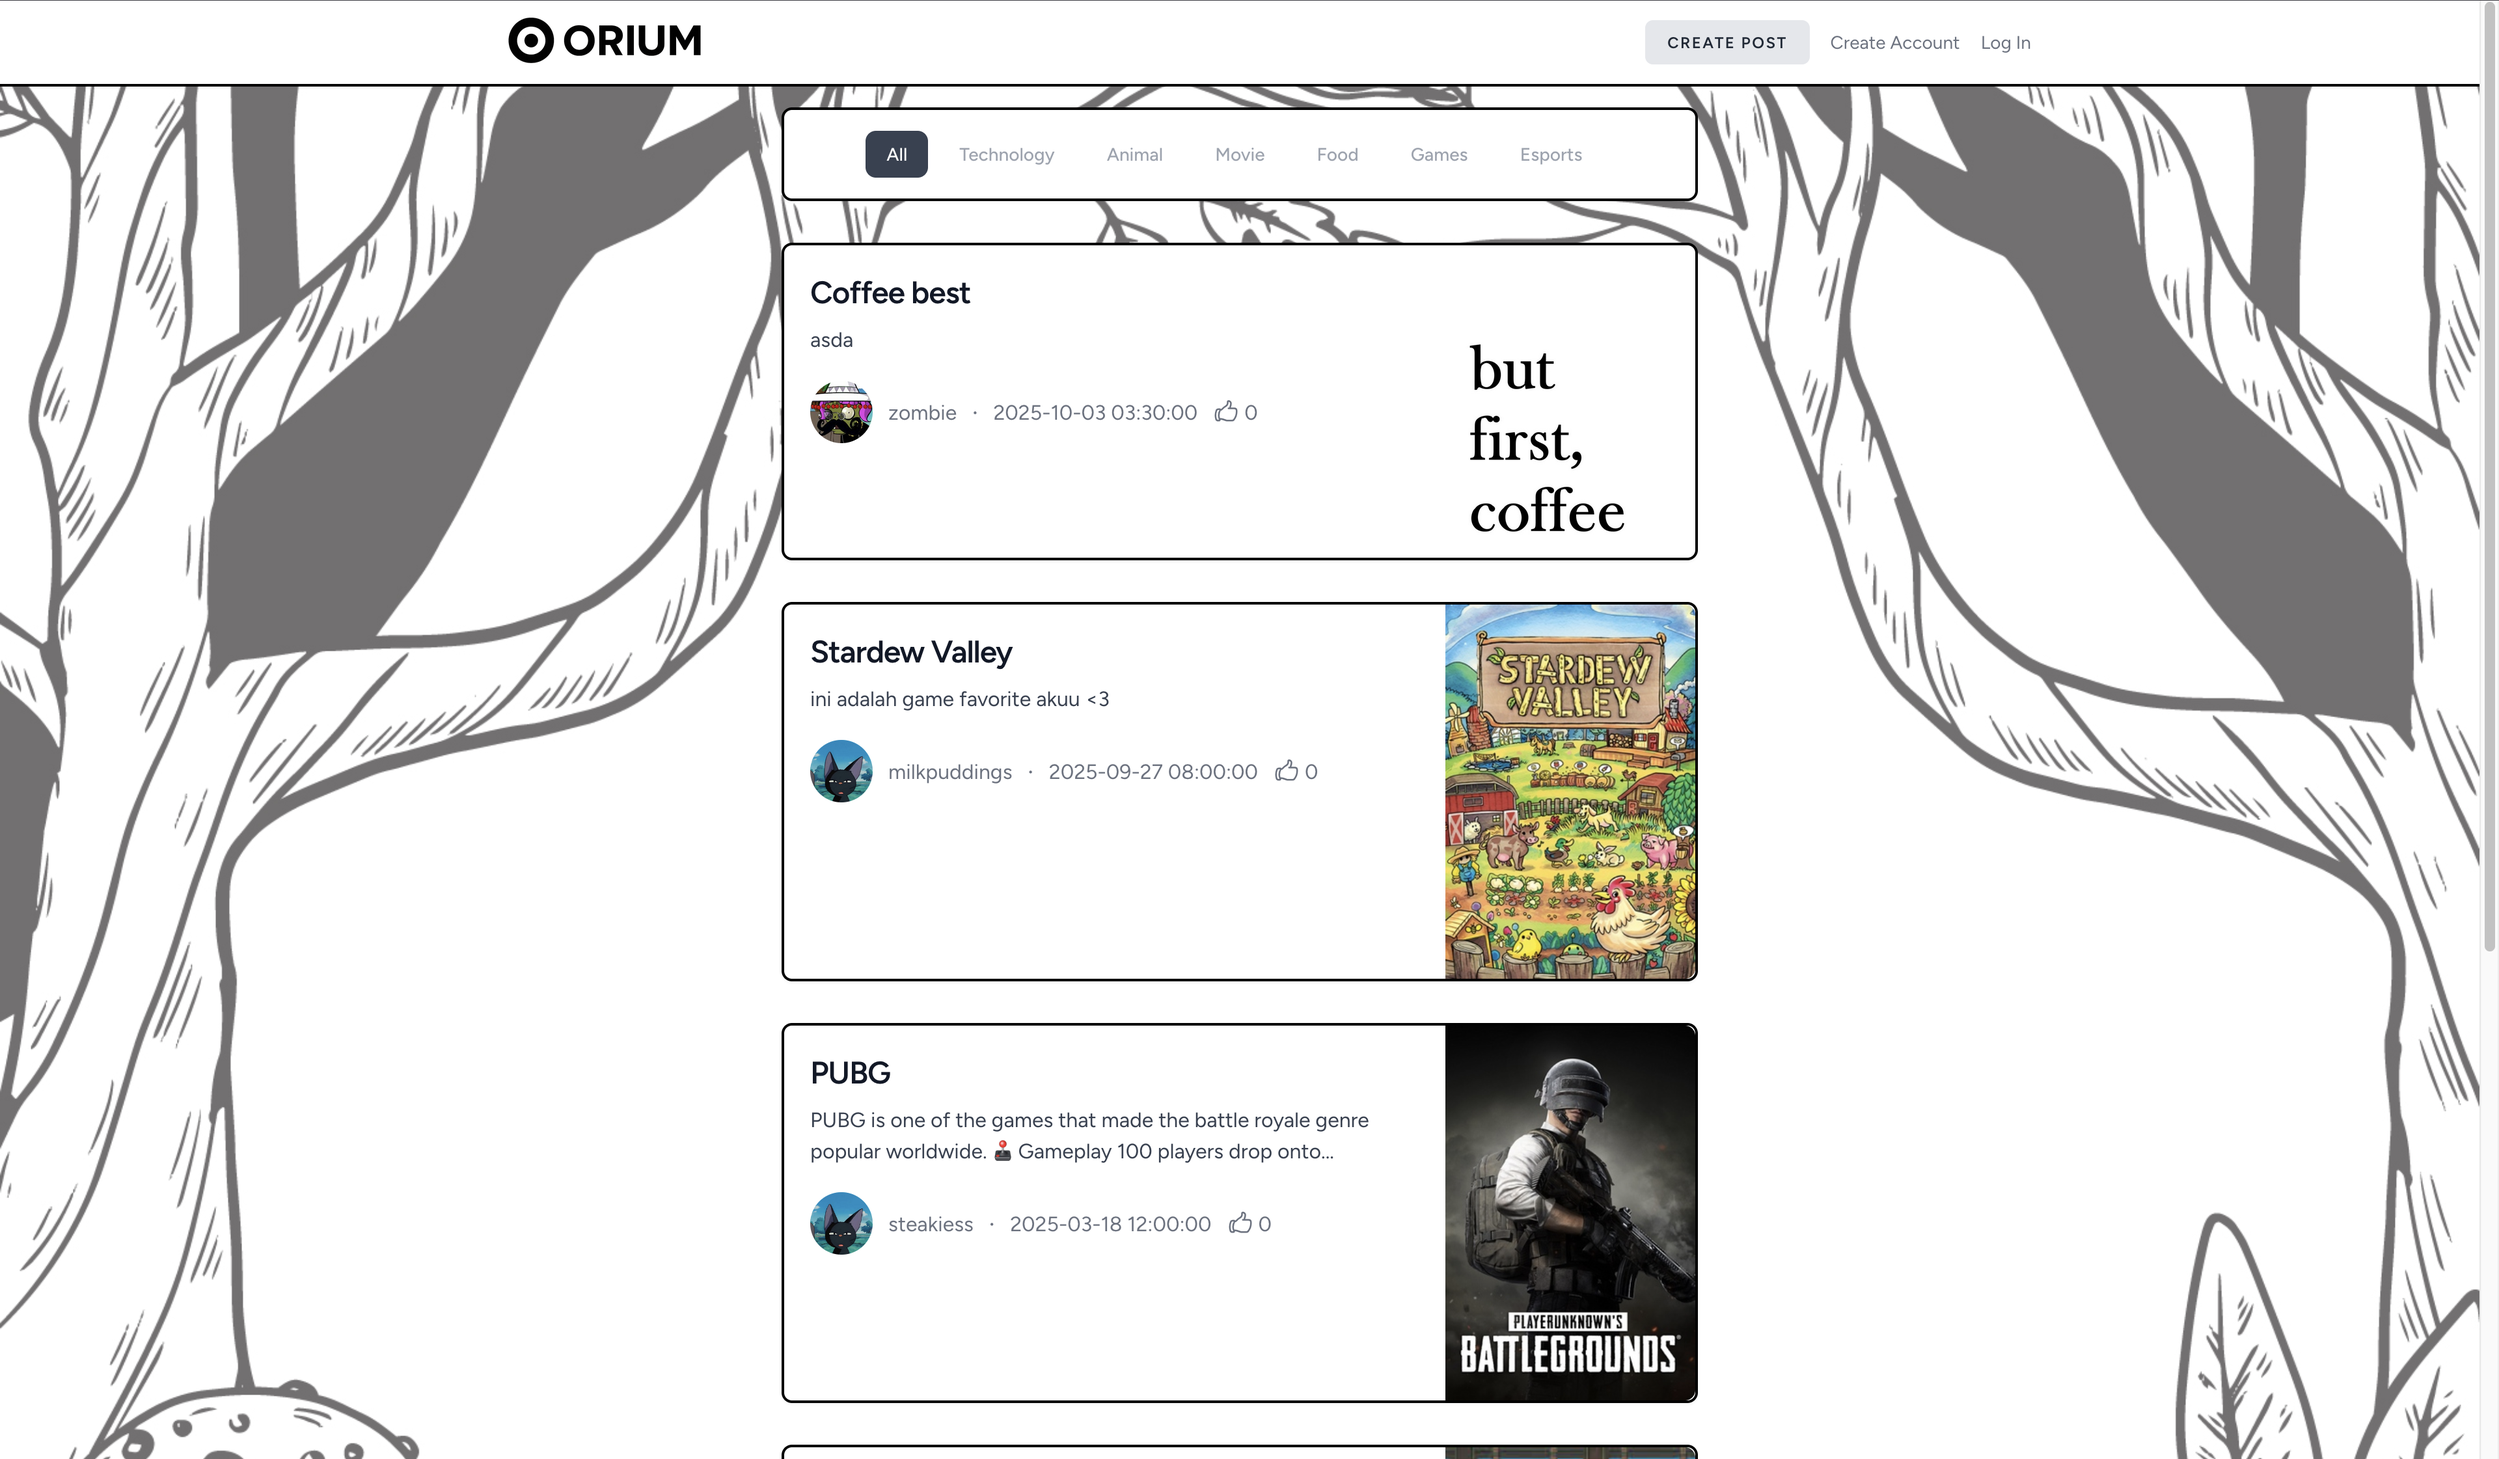
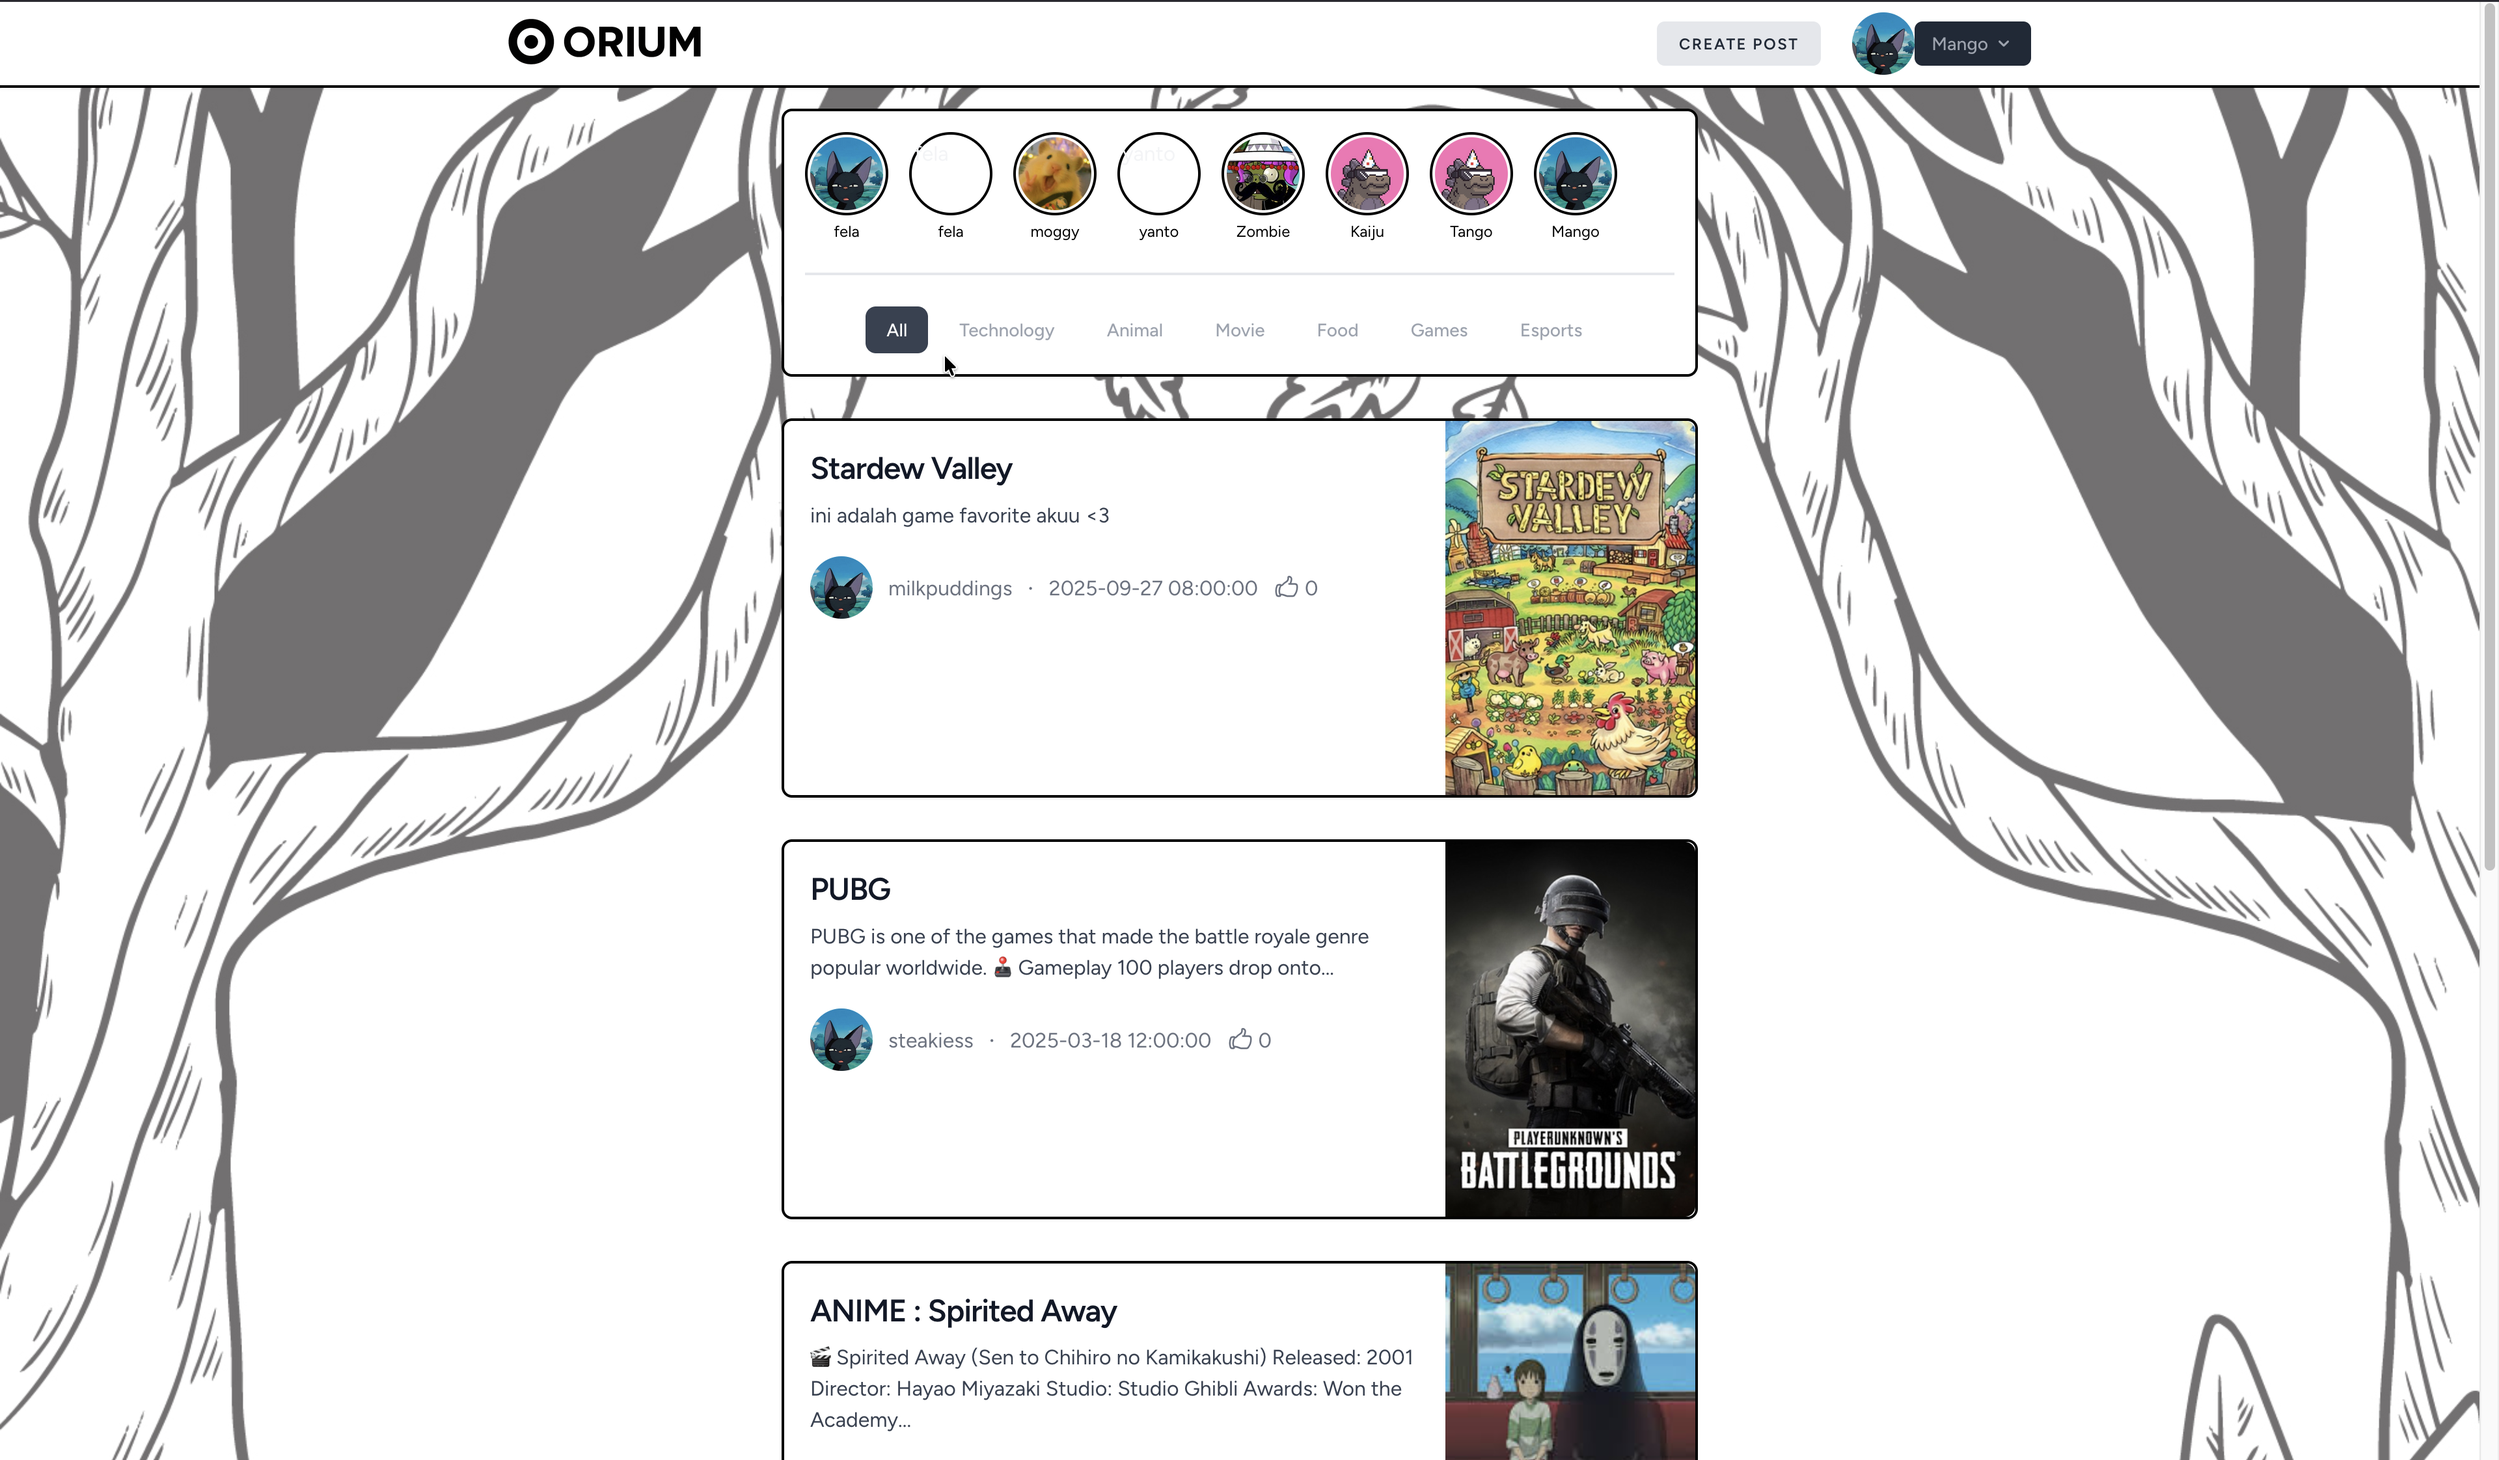
add user stories section

Changed region(s): [[0.0, 0.0, 1.0, 1.0], [0.3125, 0.5932, 0.5312, 0.7493]]

diff --git a/resources/views/post/index.blade.php b/resources/views/post/index.blade.php
@@ -1,18 +1,45 @@
 <x-app-layout>
-
-
-
     <div class="py-4">
         <div class="max-w-3xl mx-auto sm:px-6 lg:px-8">
             <div class="bg-white overflow-hidden shadow-sm sm:rounded-lg border-2 border-black">
                 <div class="p-4 text-gray-900 dark:text-gray-100">
+                    <!-- User Stories Section -->
+                    <div class="mb-6 pb-4 border-b-2 border-gray-200">
+                        <div class="flex overflow-x-auto gap-4 pb-2 scrollbar-hide">
+                            @foreach ($users as $user)
+                                <a href="{{ route('profile.show', $user->username) }}"
+                                    class="flex-shrink-0 flex flex-col items-center group">
+                                    <div class="relative">
+                                        <!-- Gradient Ring -->
+                                        <div
+                                            class="w-16 h-16 rounded-full bg-gradient-to-tr from-black via-black to-black p-[2px]">
+                                            <!-- White padding -->
+                                            <div class="w-full h-full bg-white rounded-full p-[2px]">
+                                                <!-- User Avatar -->
+                                                <img src="{{ $user->imageUrl() }}" alt="{{ $user->name }}"
+                                                    class="w-full h-full rounded-full object-cover">
+                                            </div>
+                                        </div>
+                                    </div>
+                                    <!-- Username -->
+                                    <span
+                                        class="text-xs mt-1 text-black dark:text-black text-center max-w-[70px] truncate group-hover:text-pink-500 transition">
+                                        {{ $user->name }}
+                                    </span>
+                                </a>
+                            @endforeach
+                        </div>
+                    </div>
+
+                    <!-- Category Tabs -->
                     <x-category-tabs>
                         No Categories
                     </x-category-tabs>
                 </div>
             </div>
 
-            <div class=" mt-8 dark:text-gray-100 text-gray-900">
+            <!-- Posts Section -->
+            <div class="mt-8 dark:text-gray-100 text-gray-900">
                 @forelse ($posts as $post)
                     <x-post-item :post="$post"></x-post-item>
                 @empty
@@ -20,15 +47,24 @@
                         <p class="text-center text-gray-400">No posts found.</p>
                     </div>
                 @endforelse
-
             </div>
 
+            <!-- Pagination -->
             <div>
                 {{ $posts->links() }}
             </div>
-
-
         </div>
     </div>
-    </div>
+
+    <!-- Add custom CSS for hiding scrollbar -->
+    <style>
+        .scrollbar-hide {
+            -ms-overflow-style: none;
+            scrollbar-width: none;
+        }
+
+        .scrollbar-hide::-webkit-scrollbar {
+            display: none;
+        }
+    </style>
 </x-app-layout>

diff --git a/app/Http/Controllers/PostController.php b/app/Http/Controllers/PostController.php
@@ -3,6 +3,7 @@
 namespace App\Http\Controllers;
 
 use App\Models\Post;
+use App\Models\User;
 use App\Models\Category;
 use Illuminate\Support\Str;
 use Illuminate\Http\Request;
@@ -20,6 +21,11 @@ class PostController extends Controller
     {
         $user = auth()->user();
 
+        $users = User::latest()
+        ->take(30)
+        ->get();
+    
+
         $query = Post::with(['user'])
             ->where('published_at', '<=', now())
             ->withCount('claps')
@@ -34,6 +40,7 @@ class PostController extends Controller
         $posts = $query->simplePaginate(5);
         return view('post.index', [
             'posts' => $posts,
+            'users' => $users,
         ]);
     }
 
@@ -71,7 +78,10 @@ class PostController extends Controller
      */
     public function show(string $username, Post $post)
     {
-        return view('post.show', ['post' => $post]);
+        $users = User::latest()
+        ->take(30)
+        ->get();
+        return view('post.show', ['post' => $post , 'users' => $users]);
     }
 
     /**
@@ -128,6 +138,9 @@ class PostController extends Controller
     public function category(Category $category)
     {
         $user = auth()->user();
+        $users = User::latest()
+        ->take(30)
+        ->get();
 
         $query = $category
             ->posts()
@@ -144,12 +157,18 @@ class PostController extends Controller
         $posts = $query->simplePaginate(5);
         return view('post.index', [
             'posts' => $posts,
+            'users' => $users,
         ]);
     }
 
     public function myPost(Post $posts)
     {
         $user = auth()->user();
+
+        $users = User::latest()
+        ->take(30)
+        ->get();
+
         $posts = $user
             ->posts()
             ->with(['user'])
@@ -158,6 +177,7 @@ class PostController extends Controller
             ->simplePaginate(5);
         return view('post.index', [
             'posts' => $posts,
+            'users' => $users,
         ]);
     }
 }

diff --git a/resources/views/profile/show.blade.php b/resources/views/profile/show.blade.php
@@ -1,13 +1,13 @@
 <x-app-layout>
     <x-slot name="header">
-        <h2 class="font-semibold text-xl text-gray-800 dark:text-gray-200 leading-tight">
+        <h2 class="font-semibold text-xl text-gray-800 dark:text-black leading-tight">
             {{ __('Profile') }}
         </h2>
     </x-slot>
 
     <div class="py-12">
         <div class="max-w-7xl mx-auto sm:px-6 lg:px-8 space-y-6">
-            <div class="p-4 sm:p-8 bg-white dark:bg-gray-800 shadow sm:rounded-lg text-white">
+            <div class="p-4 sm:p-8 bg-white dark:bg-white border-2 border-black shadow sm:rounded-lg text-black">
                 <div class="flex">
 
                     <div class="flex-1 pr-8">

diff --git a/resources/views/layouts/app.blade.php b/resources/views/layouts/app.blade.php
@@ -21,6 +21,8 @@
     <div class="min-h-screen bg-cover bg-center bg-no-repeat" style="background-image: url('{{ asset('images/background-5.jpg') }}');">
         @include('layouts.navigation')
 
+        
+
         <!-- Page Heading -->
         @isset($header)
             <header class="bg-white dark:bg-white  border-b-2 border-black">
